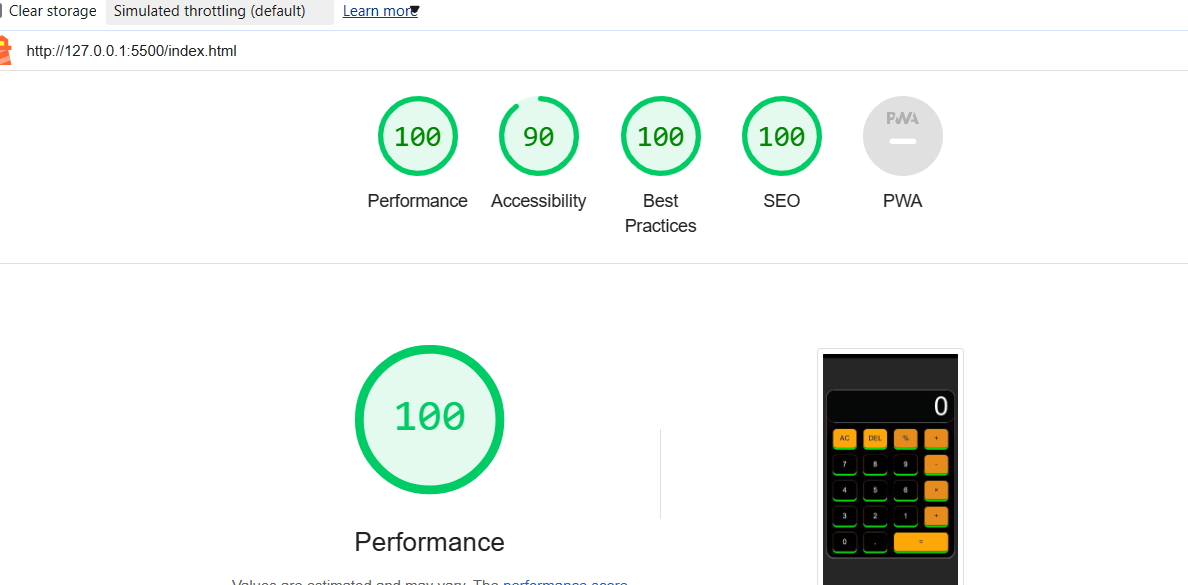
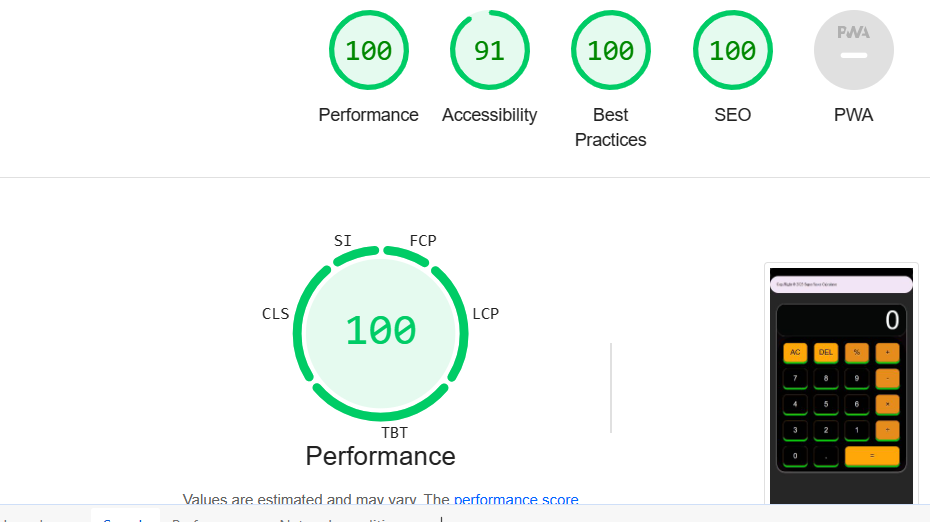
add performance testing

diff --git a/assets/css/index.css b/assets/css/index.css
@@ -126,118 +126,35 @@ html  {
   .delete-key:hover{
     background-color: rgb(212, 138, 0);
   }
-
+  footer {
+    background-color: #f3e5f5;
+    padding: 20px;
+  }
 /* Media queries */
 
-/* For large to medium screens sizes from 1200px wide and down */
-@media screen and (min-width: 450px) {
-  #cover-image {
-      margin: 0 auto;
-      background-position: center;
-  }
+  @media screen and (min-width: 480px) {
 
-  .left-paragraph,
-  .right-paragraph {
-      height: 200px;
-  }
-}
+    .controls-area {
+     width: 70%;
+     margin: 10px auto;
+    }
+  
+    
+} 
 
-/* For large to medium screens sizes from 950px wide and down */
-@media screen and (max-width: 950px) {
 
-  #menu {
-      margin-top: 20px;
-  }
+@media (max-width: 900px) {
+    .controls-area {
+     width: 75%;
+    
+}}
+ 
 
-  #cover-text {
-      left: 0px;
-  }
+ 
 
-  #Isro {
-      width: 90%;
-      height: 1200px;
-      margin: 0 auto;
-  }
+ 
 
-  .left-about-heading,
-  .right-about-heading {
-      width: inherit;
-  }
 
-  .left-about-heading h2,
-  .right-about-heading h2 {
-      width: 100%;
-      text-align: center;
-  }
-
-  .left-about-heading p,
-  .right-about-heading p {
-      text-align: center;
-      padding: 0 20px 0 20px;
-  }
-
-  #photo {
-      column-count: 3;
-  }
-}
-
-/* For medium screens sizes from 800px wide and down */
-@media screen and (max-width: 800px) {
-  #chandrayaan-3 {
-      width: 65%;
-      height: 1200px;
-      margin: 0 auto;
-  }
-
-  #photo {
-      column-count: 2;
-  }
-
-  #welcome {
-      padding: 30px 0;
-      margin-top: 0;
-  }
-
-  #left-about,
-  #right-about {
-      width: 100%;
-      float: left;
-      padding: 0;
-  }
-
-  #center-about {
-      clear: both;
-      width: 100%;
-      float: left;
-      padding: 0;
-  }
-
-  #times div {
-      width: 100%;
-      clear: both;
-      height: 150px;
-      padding: 0;
-  }
-
-  hr {
-      display: none;
-  }
-
-  .left-right-container {
-      flex-direction: column;
-  }
-
-  .left-paragraph,
-  .right-paragraph {
-      margin: 10px auto;
-      width: 90%;
-  }
-}
-
-@media screen and (max-width: 550px) {
-  header {
-      flex-direction: column;
-  }
-}
+  
 
 

diff --git a/index.html b/index.html
@@ -72,8 +72,11 @@
 	</main>
 
 	<footer>
-		CopyRight &copy; 2023 Super Saver Calculator
-    </footer>
+
+		CopyRight &copy; 2023 Super Saver
+		 Calculator
+	</footer>
+    
 
 	<script src="assets/js/script.js"></script>
 
